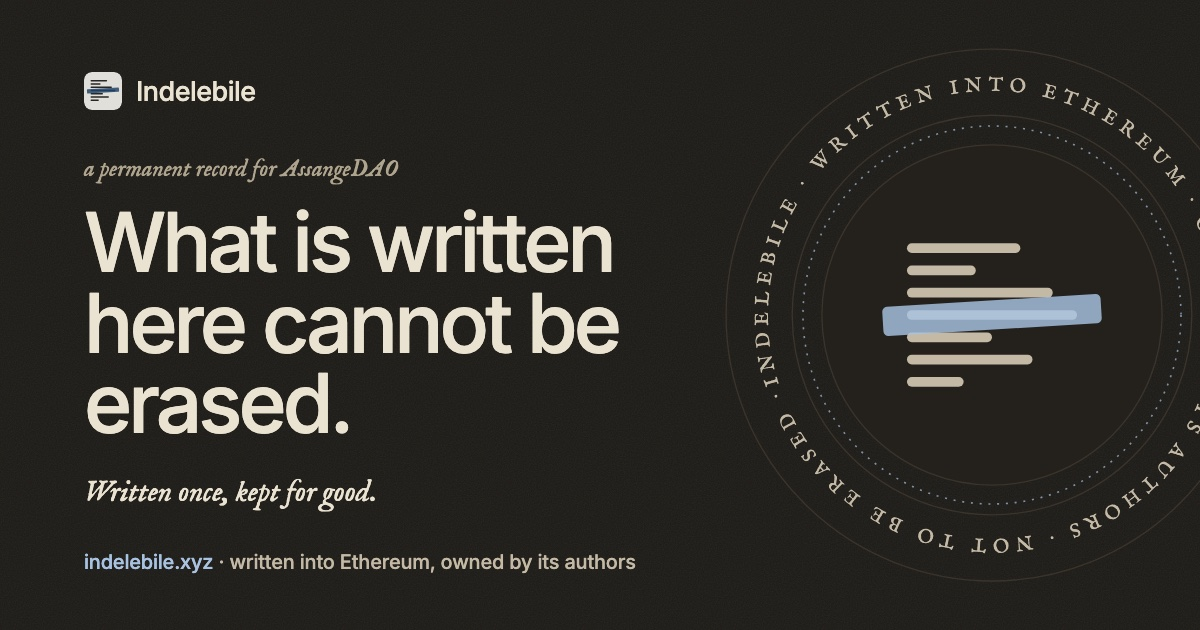
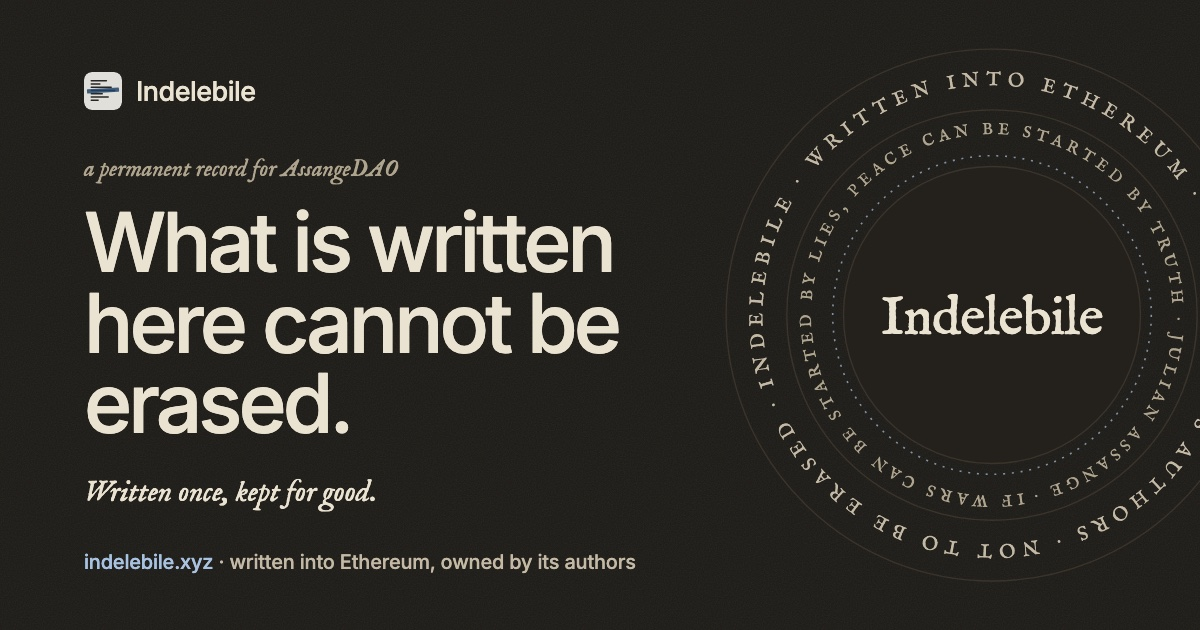
Put Assange's words in the seal, and answer the statement in Chinese
The seal now carries two rings turning opposite ways: the project's own
words outside, and inside Assange's line from Trafalgar Square in 2011,
"If wars can be started by lies, peace can be started by truth", around
the name, which stays still. The share card shows the same seal.

In Chinese the statement is no longer translated but answered in kind,
with a couplet from Du Fu, set in the book face: 文章千古事，得失寸心知.

diff --git a/web/index.html b/web/index.html
@@ -21,7 +21,7 @@
 <meta property="og:title" content="Indelebile — a permanent record for AssangeDAO">
 <meta property="og:description" content="Write what you want kept. It goes into Ethereum calldata and is minted as an ethscription you own — nothing to renew, nothing to unpin, and no one who can quietly delete it.">
 <meta property="og:url" content="https://indelebile.xyz/">
-<meta property="og:image" content="https://indelebile.xyz/og.jpg?v=628863d3aa">
+<meta property="og:image" content="https://indelebile.xyz/og.jpg?v=dc87dba7c1">
 <meta property="og:image:width" content="1200">
 <meta property="og:image:height" content="630">
 <meta name="twitter:card" content="summary_large_image">
@@ -110,6 +110,9 @@ a{color:inherit}
 .kicker{margin:0 0 1.3rem;font:italic 1.05rem/1.4 var(--serif);color:var(--ink-3)}
 h1{margin:0;font:500 clamp(2.7rem,6.6vw,5.4rem)/.98 var(--sans);letter-spacing:-.048em;
   color:var(--ink);text-wrap:balance}
+/* In Chinese the statement is a couplet from Du Fu, so it is set in the
+   book face a couplet would be printed in, not the interface sans. */
+html[lang|=zh] h1{font-family:var(--serif);font-weight:400;letter-spacing:.04em;line-height:1.12}
 .lede{margin-top:1.8rem;max-width:34rem}
 .lede p{margin:0;font-size:1.08rem;line-height:1.7;color:var(--ink-2);
   /* Justified: the one designed block of copy on the page. Measured with
@@ -128,20 +131,22 @@ h1{margin:0;font:500 clamp(2.7rem,6.6vw,5.4rem)/.98 var(--sans);letter-spacing:-
 .pill.solid{background:var(--accent);border-color:var(--accent);color:var(--paper)}
 .pill.solid:hover{opacity:.88}
 
-/* The seal: a notary's stamp around the mark. The ring of words turns
-   slowly; nothing else on the page moves. */
+/* The seal: a notary's stamp with the name at its centre. Two rings of
+   words turn slowly, in opposite directions; nothing else on the page
+   moves. */
 .seal{width:100%;max-width:27rem;justify-self:center;color:var(--ink)}
 .seal svg{display:block;width:100%;height:auto}
 .seal .ring{transform-origin:200px 200px;animation:turn 140s linear infinite}
 @keyframes turn{to{transform:rotate(360deg)}}
+.seal .ring.in{animation-duration:110s;animation-direction:reverse}
+.seal .quote{font-size:12px;letter-spacing:.16em;fill:var(--ink-3)}
+.seal .name{font:400 40px var(--serif);letter-spacing:-.01em;fill:var(--ink)}
 @media(prefers-reduced-motion:reduce){.seal .ring{animation:none}}
 .seal text{font:400 14.5px var(--serif);letter-spacing:.24em;fill:var(--ink-2)}
 .seal .hair{fill:none;stroke:var(--rule);stroke-width:1}
 .seal .perf{fill:none;stroke:var(--accent);stroke-width:1.2;stroke-dasharray:1.5 5;opacity:.7}
 .seal .disc{fill:var(--sheet);stroke:var(--rule);stroke-width:1}
-.seal .line{fill:var(--ink-2)}
-.seal .bar{fill:var(--accent);fill-opacity:.82}
-.seal .count{font:italic 400 19px var(--serif);letter-spacing:0;fill:var(--ink-3)}
+.seal .count{font:italic 400 15px var(--serif);letter-spacing:0;fill:var(--ink-3)}
 
 /* ---------- figures ---------- */
 .figures{border-top:1px solid var(--rule);border-bottom:1px solid var(--rule)}
@@ -363,23 +368,20 @@ footer .addr{word-break:break-all}
     </div>
     <div class="seal" aria-hidden="true">
       <svg viewBox="0 0 400 400">
-        <defs><path id="ringPath" d="M200,200 m-166,0 a166,166 0 1,1 332,0 a166,166 0 1,1 -332,0"/></defs>
+        <defs>
+          <path id="ringOut" d="M200,200 m-170,0 a170,170 0 1,1 340,0 a170,170 0 1,1 -340,0"/>
+          <path id="ringIn" d="M200,200 m-134,0 a134,134 0 1,1 268,0 a134,134 0 1,1 -268,0"/>
+        </defs>
         <circle class="hair" cx="200" cy="200" r="197"/>
-        <g class="ring"><text><textPath href="#ringPath" textLength="1040" lengthAdjust="spacing">INDELEBILE · WRITTEN INTO ETHEREUM · OWNED BY ITS AUTHORS · NOT TO BE ERASED · </textPath></text></g>
-        <circle class="hair" cx="200" cy="200" r="148"/>
-        <circle class="perf" cx="200" cy="200" r="140"/>
-        <circle class="disc" cx="200" cy="200" r="126"/>
-        <g transform="translate(104 92) scale(3)">
-          <rect class="line" x="11" y="13.50" width="28" height="2.4" rx="1.2"/>
-          <rect class="line" x="11" y="19.00" width="17" height="2.4" rx="1.2"/>
-          <rect class="line" x="11" y="24.50" width="36" height="2.4" rx="1.2"/>
-          <rect class="line" x="11" y="30.00" width="42" height="2.4" rx="1.2"/>
-          <rect class="line" x="11" y="35.50" width="21" height="2.4" rx="1.2"/>
-          <rect class="line" x="11" y="41.00" width="31" height="2.4" rx="1.2"/>
-          <rect class="line" x="11" y="46.50" width="14" height="2.4" rx="1.2"/>
-          <rect class="bar" x="5" y="27.60" width="54" height="7.2" rx="1.2" transform="rotate(-3.5 32 31.20)"/>
-        </g>
-        <text class="count" x="200" y="276" text-anchor="middle" id="sealCount"></text>
+        <g class="ring"><text><textPath href="#ringOut" textLength="1060" lengthAdjust="spacing">INDELEBILE · WRITTEN INTO ETHEREUM · OWNED BY ITS AUTHORS · NOT TO BE ERASED · </textPath></text></g>
+        <circle class="hair" cx="200" cy="200" r="152"/>
+        <!-- Assange, Trafalgar Square, 8 October 2011, in the form it is
+             usually quoted. It turns the other way from the outer ring. -->
+        <g class="ring in"><text class="quote"><textPath href="#ringIn" textLength="836" lengthAdjust="spacing">IF WARS CAN BE STARTED BY LIES, PEACE CAN BE STARTED BY TRUTH · JULIAN ASSANGE · </textPath></text></g>
+        <circle class="perf" cx="200" cy="200" r="118"/>
+        <circle class="disc" cx="200" cy="200" r="110"/>
+        <text class="name" x="200" y="210" text-anchor="middle">Indelebile</text>
+        <text class="count" x="200" y="244" text-anchor="middle" id="sealCount"></text>
       </svg>
     </div>
   </div>
@@ -629,7 +631,7 @@ node src/indexer.mjs --rpc &lt;an rpc that serves getLogs&gt;</pre>
 </footer>
 
 <script src="config.js?v=a2596d73d2"></script>
-<script src="i18n.js?v=85c62e8b2c"></script>
+<script src="i18n.js?v=7616a4425d"></script>
 <script src="abi.js?v=1a24c97d10"></script>
 <script type="module" src="app.js?v=732aa7d51e"></script>
 </body>

diff --git a/scripts/og-card.html b/scripts/og-card.html
@@ -23,8 +23,9 @@
   .hair{fill:none;stroke:#3a342b;stroke-width:1}
   .perf{fill:none;stroke:#a8c3e2;stroke-width:1.2;stroke-dasharray:1.5 5;opacity:.7}
   .disc{fill:#24211c;stroke:#3a342b;stroke-width:1}
-  .line{fill:#c3b9a5} .bar{fill:#a8c3e2;fill-opacity:.82}
   text{font:400 14.5px 'IM Fell English';letter-spacing:.24em;fill:#c3b9a5}
+  .quote{font-size:12px;letter-spacing:.16em;fill:#afa58f}
+  .name{font:400 40px 'IM Fell English';letter-spacing:-.01em;fill:#ebe3d1}
 </style></head><body>
   <div class="text">
     <div class="brand"><img src="../web/mark.svg" alt="">Indelebile</div>
@@ -34,21 +35,16 @@
   </div>
   <p class="foot"><span>indelebile.xyz</span> · written into Ethereum, owned by its authors</p>
   <svg class="seal" viewBox="0 0 400 400">
-    <defs><path id="ringPath" d="M200,200 m-166,0 a166,166 0 1,1 332,0 a166,166 0 1,1 -332,0"/></defs>
+    <defs>
+      <path id="ringOut" d="M200,200 m-170,0 a170,170 0 1,1 340,0 a170,170 0 1,1 -340,0"/>
+      <path id="ringIn" d="M200,200 m-134,0 a134,134 0 1,1 268,0 a134,134 0 1,1 -268,0"/>
+    </defs>
     <circle class="hair" cx="200" cy="200" r="197"/>
-    <g transform="rotate(-18 200 200)"><text><textPath href="#ringPath" textLength="1040" lengthAdjust="spacing">INDELEBILE · WRITTEN INTO ETHEREUM · OWNED BY ITS AUTHORS · NOT TO BE ERASED · </textPath></text></g>
-    <circle class="hair" cx="200" cy="200" r="148"/>
-    <circle class="perf" cx="200" cy="200" r="140"/>
-    <circle class="disc" cx="200" cy="200" r="126"/>
-    <g transform="translate(104 106.4) scale(3)">
-      <rect class="line" x="11" y="13.50" width="28" height="2.4" rx="1.2"/>
-      <rect class="line" x="11" y="19.00" width="17" height="2.4" rx="1.2"/>
-      <rect class="line" x="11" y="24.50" width="36" height="2.4" rx="1.2"/>
-      <rect class="line" x="11" y="30.00" width="42" height="2.4" rx="1.2"/>
-      <rect class="line" x="11" y="35.50" width="21" height="2.4" rx="1.2"/>
-      <rect class="line" x="11" y="41.00" width="31" height="2.4" rx="1.2"/>
-      <rect class="line" x="11" y="46.50" width="14" height="2.4" rx="1.2"/>
-      <rect class="bar" x="5" y="27.60" width="54" height="7.2" rx="1.2" transform="rotate(-3.5 32 31.20)"/>
-    </g>
+    <g transform="rotate(-18 200 200)"><text><textPath href="#ringOut" textLength="1060" lengthAdjust="spacing">INDELEBILE · WRITTEN INTO ETHEREUM · OWNED BY ITS AUTHORS · NOT TO BE ERASED · </textPath></text></g>
+    <circle class="hair" cx="200" cy="200" r="152"/>
+    <g transform="rotate(-100 200 200)"><text class="quote"><textPath href="#ringIn" textLength="836" lengthAdjust="spacing">IF WARS CAN BE STARTED BY LIES, PEACE CAN BE STARTED BY TRUTH · JULIAN ASSANGE · </textPath></text></g>
+    <circle class="perf" cx="200" cy="200" r="118"/>
+    <circle class="disc" cx="200" cy="200" r="110"/>
+    <text class="name" x="200" y="214" text-anchor="middle">Indelebile</text>
   </svg>
 </body></html>

diff --git a/web/i18n.js b/web/i18n.js
@@ -80,7 +80,9 @@
     'Get test $JUSTICE': '领取测试用 $JUSTICE',
 
     // the opening
-    'What is written here cannot be erased.': '写在这里的，无法被抹去。',
+    // Not a translation but an answer in kind: Du Fu, 偶题. A couplet,
+    // because a single line set alone reads as unfinished in Chinese.
+    'What is written here cannot be erased.': '文章千古事，<br>得失寸心知。',
     'Written once, kept for good.': '一次写下，永久留存。',
     'Read the record': '阅读记录',
     'the record': '记录',
@@ -92,7 +94,9 @@
     'Write': '写入',
 
     // the opening
-    'What is written here cannot be erased.': '写在这里的，无法被抹去。',
+    // Not a translation but an answer in kind: Du Fu, 偶题. A couplet,
+    // because a single line set alone reads as unfinished in Chinese.
+    'What is written here cannot be erased.': '文章千古事，<br>得失寸心知。',
     'Written once, kept for good.': '一次写下，永久留存。',
     'Read the record': '阅读记录',
     'the record': '记录',
